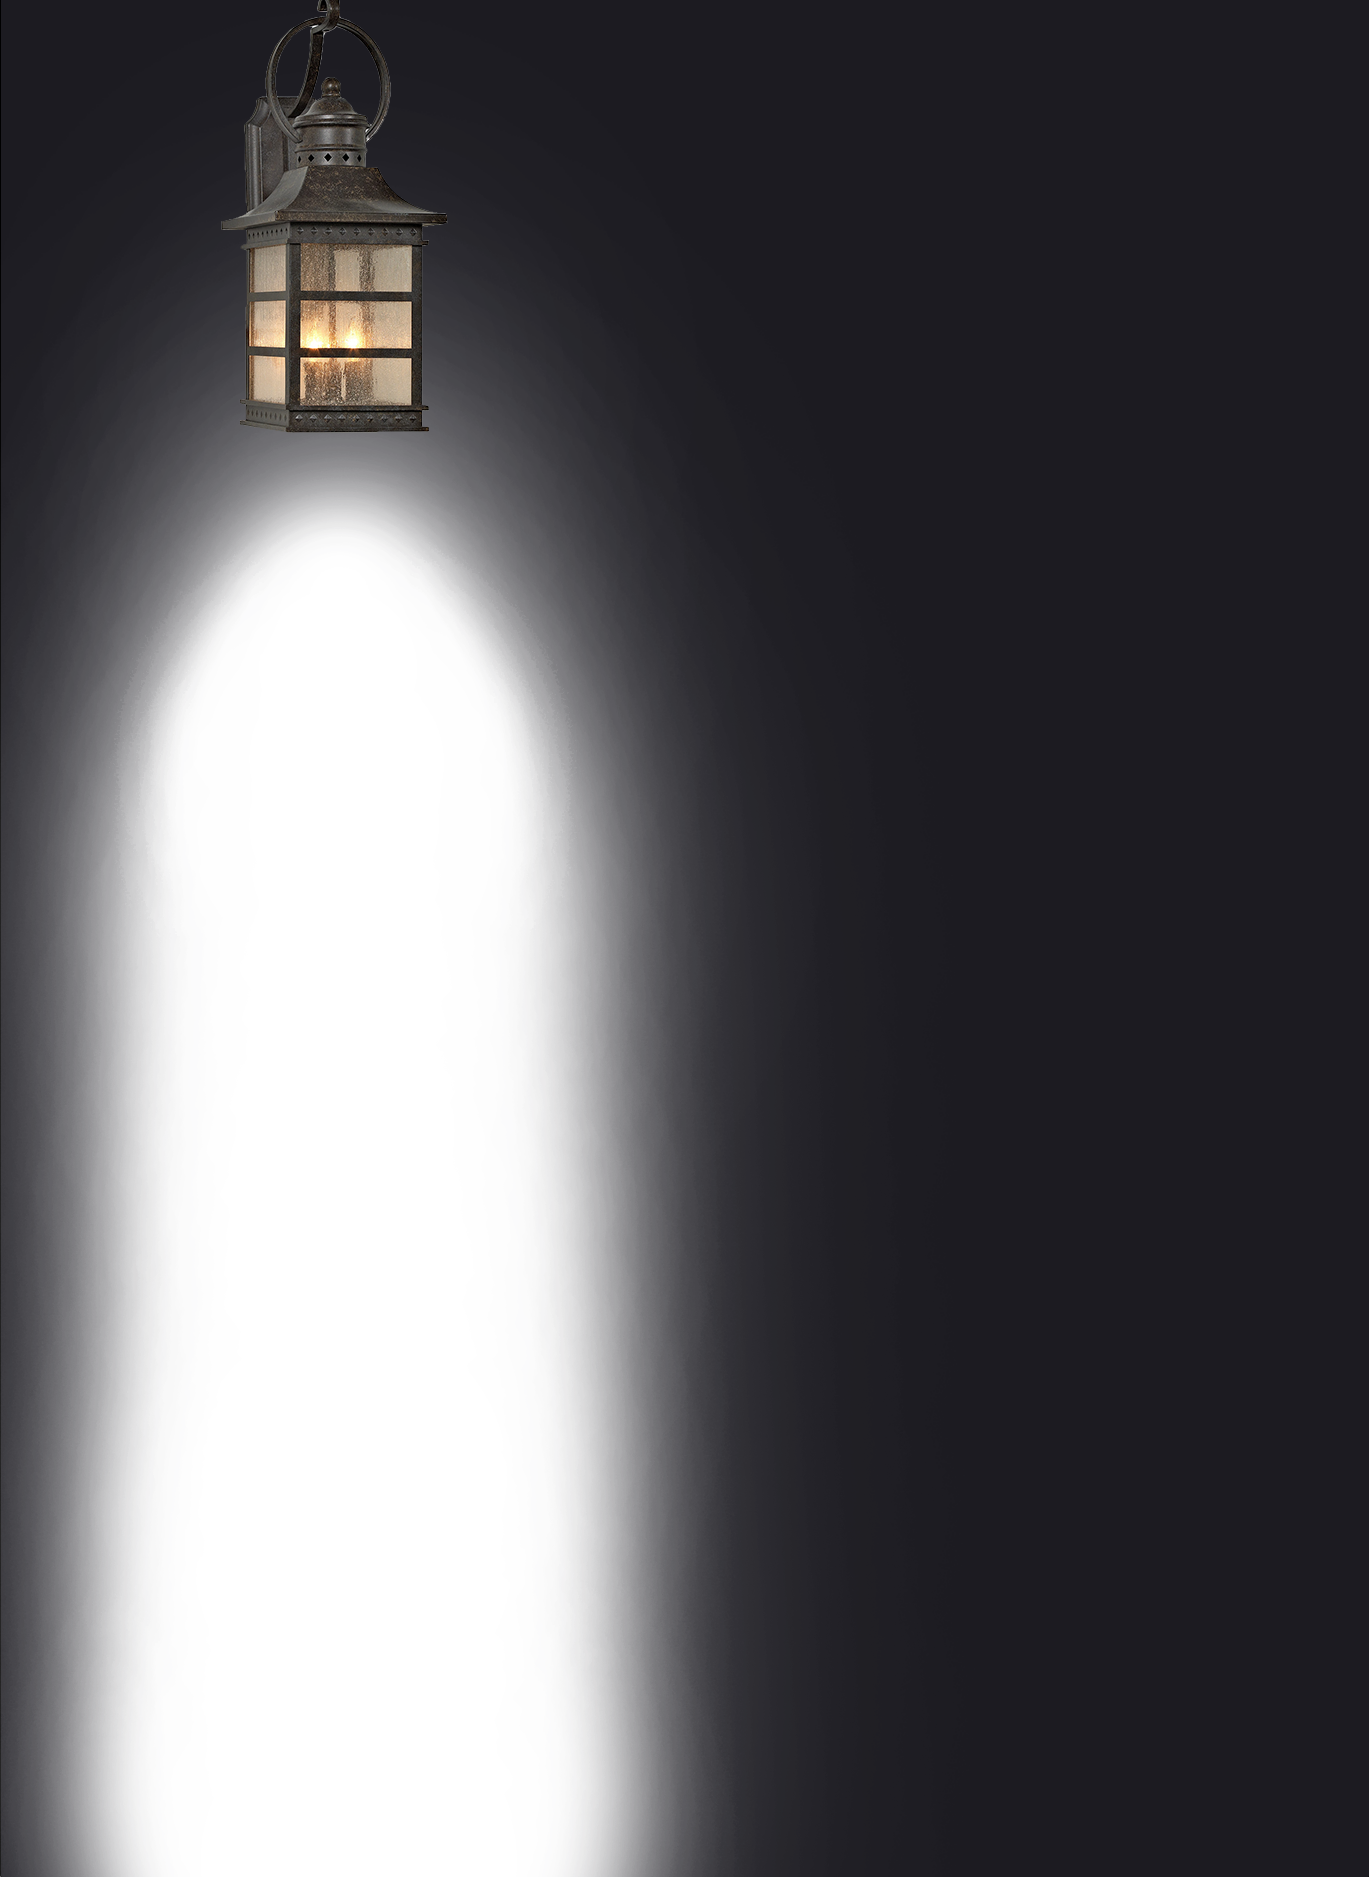
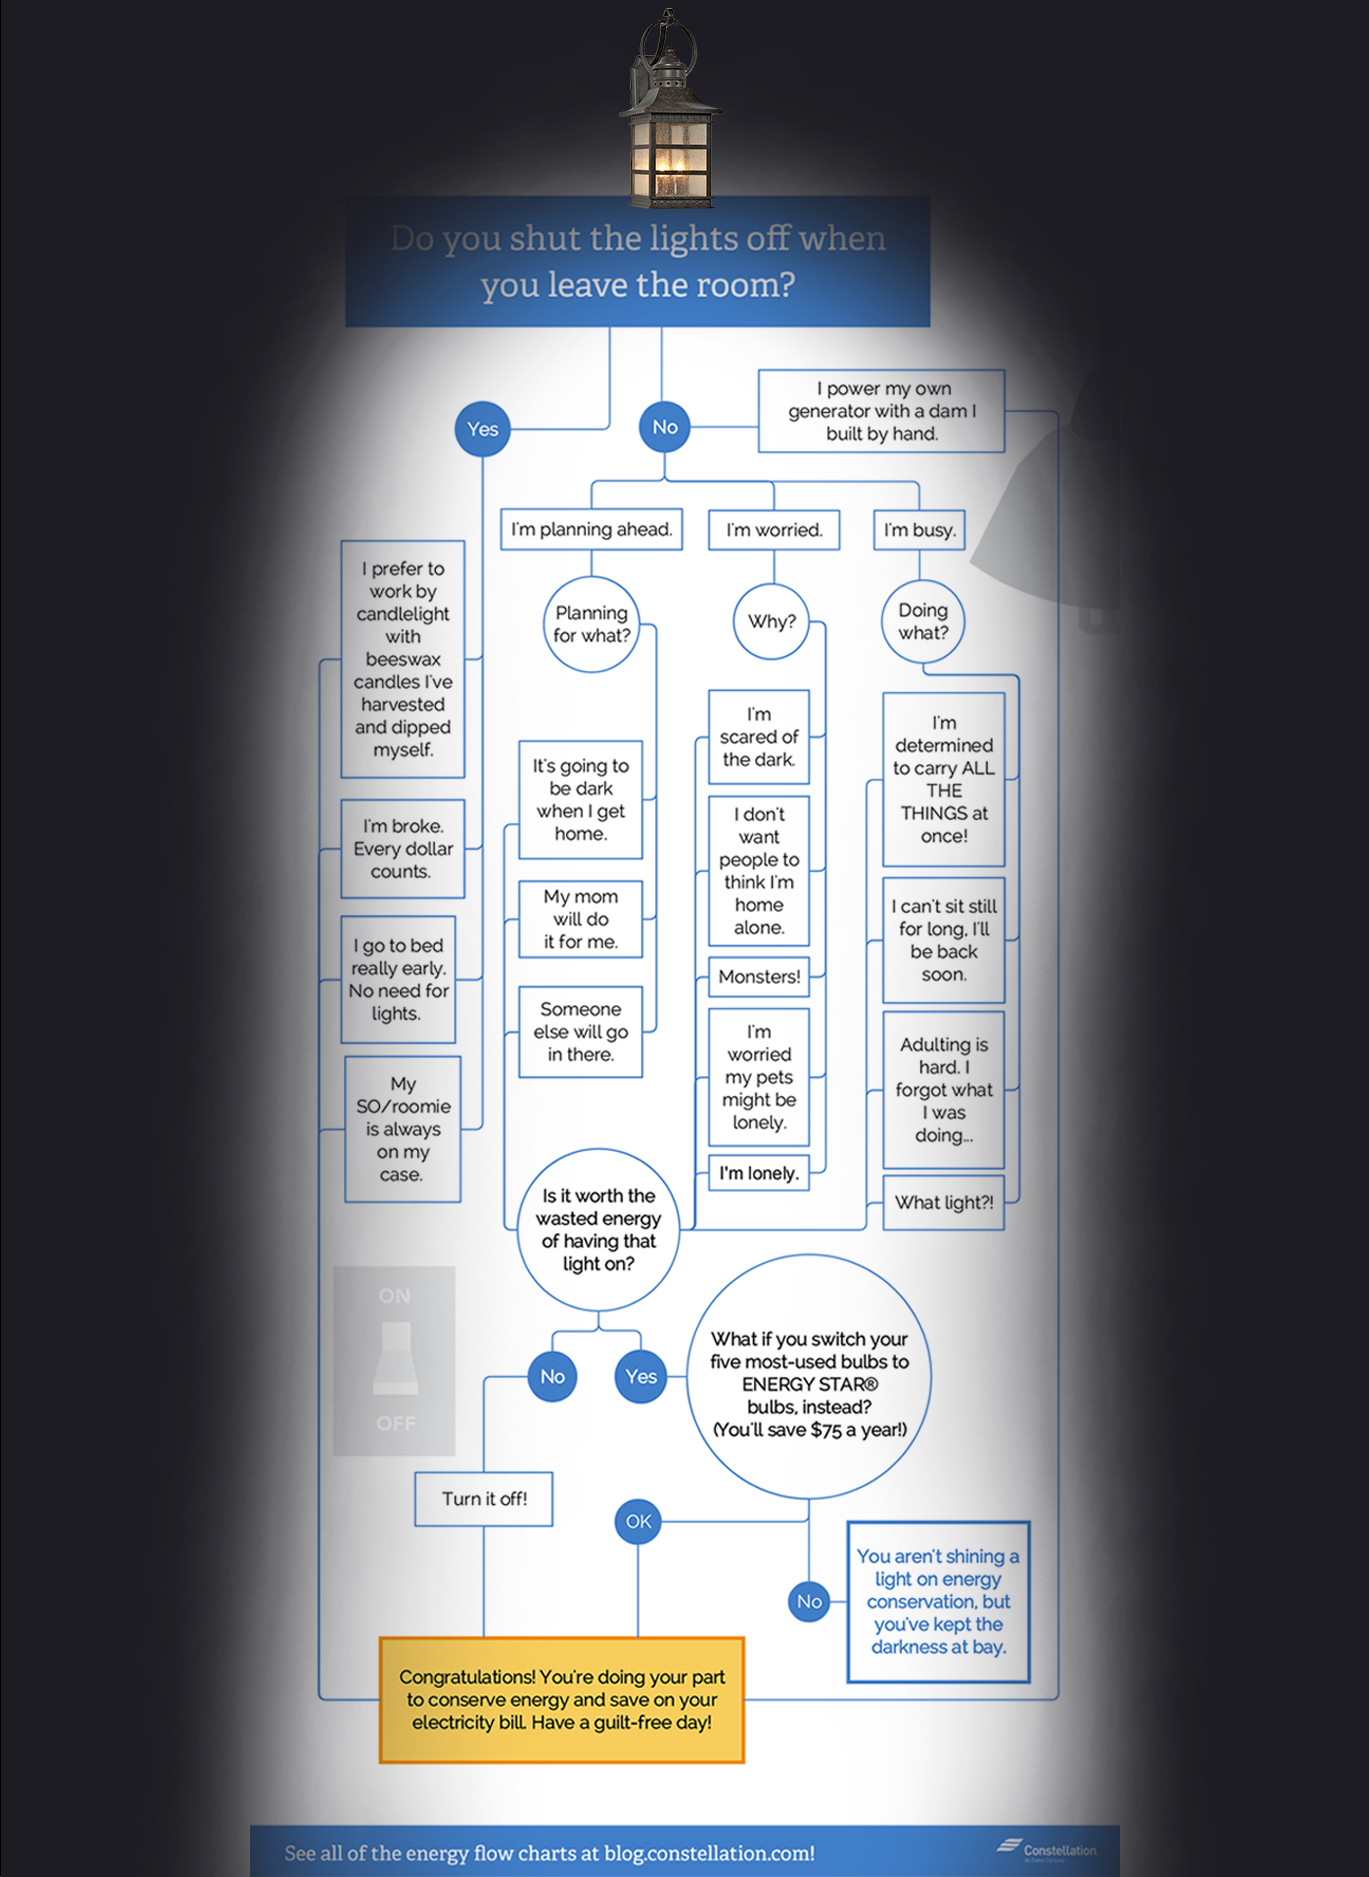
styled left aside, article, and right aside;

diff --git a/css/styles.css b/css/styles.css
@@ -37,7 +37,7 @@ body {
 	flex-direction: column;
 }
 
-.content {
+main {
 	flex: 1 0 auto;
 	max-width: 1000px;
 	width: 100%
@@ -148,40 +148,6 @@ header {
 }
 /*----------- Header Styling (end) -------------*/
 
-/*----------- Footer Styling (begin) -----------*/
-footer {
-	align-items: center;
-	background-color: #c9d1d1;
-	color: #1c1b21;
-	display: flex;
-	flex-flow: row nowrap;
-	font: normal 0.8rem/1.5 'mr-eaves-modern', sans-serif;
-	height: 100px;
-	justify-content: space-between;
-	padding: 10px;
-	text-align: center;
-	width: 100%;
-}
-
-footer a {
-	text-decoration: none;
-}
-
-.brandname {
-	font: normal 0.8rem/1.5 'ratio', sans-serif;
-}
-
-.nwd {
-	font: normal 0.8rem/1.5 'josefin-sans', sans-serif;
-	color: #1c1b21;
-}
-
-.nwd:hover {
-	color: #a3d06f;
-	text-shadow: 1px 1px 3px #1c1b21;
-}
-/*----------- Footer Styling (end) -------------*/
-
 h2, h3, h4, p {
 	color: #1c1b21;
 	font: normal 1.5rem/1.5 'mr-eaves-modern', sans-serif;
@@ -207,11 +173,110 @@ p {
 	width: 100%;
 }
 
+/*----------- Footer Styling (begin) -----------*/
+footer {
+	align-items: center;
+	background-color: #c9d1d1;
+	color: #1c1b21;
+	display: flex;
+	flex-flow: row nowrap;
+	height: 100px;
+	justify-content: space-between;
+	padding: 10px;
+	text-align: center;
+	width: 100%;
+}
+
+footer h4, footer p {
+	font: normal 0.8rem/1.5 'mr-eaves-modern', sans-serif;
+}
+
+footer a {
+	text-decoration: none;
+}
+
+.brandname {
+	font: normal 0.8rem/1.5 'ratio', sans-serif;
+}
+
+.nwd {
+	font: normal 0.8rem/1.5 'josefin-sans', sans-serif;
+	color: #1c1b21;
+}
+
+.nwd:hover {
+	color: #a3d06f;
+	text-shadow: 1px 1px 3px #1c1b21;
+}
+/*----------- Footer Styling (end) -------------*/
+
 /*--******************* Universal Styling (end) ************************--*/
 
 /*--******************* Home Page Styling (begin) **********************--*/
+.content {
+	display: flex;
+	flex-direction: column;
+}
+/*----------- Left Aside Styling (begin) -----------*/
+.left {
+	background: white url(../images/extlght-on.png) no-repeat center;
+	background-size: contain;
+	max-width: 500px;
+	width: 100%;
+}
+
+.btn-lamp {
+	background-color: #1c1b21;
+	max-width: 500px;
+	width: 100%;
+}
+
+.left .on {
+	margin-top: -10px;
+}
+/*----------- Left Aside Styling (end) -------------*/
+/*----------- Article Styling (begin) --------------*/
+.article {
+	background: white url(../images/lghton-blkfade.png) no-repeat center;
+	background-size: cover;
+	margin-top: -4px;
+	text-align: center;
+}
+
+.article h2 {
+	padding-top: 85px;
+}
+
+.article p {
+	padding-bottom: 115px;
+}
+/*----------- Article Styling (end) ----------------*/
+/*----------- Right Aside Styling (begin) ----------*/
+.right {
+	background-color: #0f898a;
+	max-width: 500px;
+	text-align: center;
+	width: 100%;
+}
+
+.outer-box {
+	border: 5px solid #f0cf6e;
+	margin: 10px auto;
+	width: 90%;
+}
+
+.inner-box {
+	background-color: #a3d06f;
+	border-top: 5px solid #f0cf6e;
+	margin-top: -5px;
+}
+
+.inner-box ul li {
+	list-style-type: none;
+}
 
 
+/*----------- Right Aside Styling (end) ------------*/
 
 /*--******************* Home Page Styling (end) ************************--*/
 

diff --git a/index.html b/index.html
@@ -60,7 +60,10 @@
 
 		<main class="content">
 			<aside class="left">
-				<img class="on md" src="images/extlght-on.png" alt="Exterior light with black fading to transparent to reveal the background infographic or information" title="Lights on" width="500"/>
+				<button class="click-me">
+					<img class="btn-lamp" src="images/btn-extlamp.png" alt="image of an external lamp" title="Click me to reveal the Infographic!"/>
+				</button>
+				<img class="on md" src="images/ltsoff-infographic.png" alt="Exterior light with black" title="Turn it on to reveal Infographic!" width="500"/>
 			</aside>
 
 			<article class="article">
